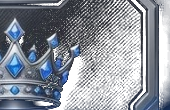
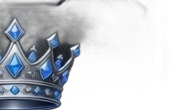
fix(live): prevent unauthorized room creation and zombie streams on tab close

diff --git a/pages/api/live/gift.js b/pages/api/live/gift.js
@@ -1,11 +1,21 @@
 /**
- * POST /api/live/gift
- * Send a diamond gift to a live broadcaster.
+ * ═══════════════════════════════════════════════════════════════════════════════
+ *  POST /api/live/gift
+ *  Send a diamond gift to a live broadcaster.
  *
  * Flow: atomic deduct from sender → atomic credit to receiver → record gift → broadcast to viewers → notify
  *
  * Uses deduct_diamonds (now with FOR UPDATE row lock) and add_diamonds_to_balance RPCs
  * for fully atomic balance operations.
+ *
+ * ANTI-FARMING SAFEGUARDS (live gifts):
+ *  - Hard block: accounts < 30 days cannot send ANY live gifts
+ *  - Source-tier rolling 30-day cap (days 31–89):
+ *      free/earned diamonds: 100 diamonds/30 days
+ *      purchased/won diamonds: 500 diamonds/30 days
+ *  - Accounts 90+ days: standard max-per-gift cap (10,000) + velocity detection
+ *  - Per-broadcaster rolling 30-day receive cap: 1,000 diamonds
+ * ═══════════════════════════════════════════════════════════════════════════════
  */
 import { randomUUID } from 'crypto';
 import { getServerUserWithFallback } from '../../../src/lib/serverAuth';
@@ -15,6 +25,59 @@ const supabase = createClient(
     process.env.NEXT_PUBLIC_SUPABASE_URL,
     process.env.SUPABASE_SERVICE_ROLE_KEY
 );
+
+// ── Anti-farming constants (live gifts) ──
+const NEW_USER_BLOCK_DAYS = 30;
+const GRADUATION_DAYS = 90;
+const FREE_EARNED_30DAY_LIMIT = 100;
+const PURCHASED_WON_30DAY_LIMIT = 500;
+const RECEIVER_30DAY_RECEIVE_LIMIT = 1000; // per broadcaster per 30-day rolling window
+
+const PURCHASED_WON_TYPES = new Set([
+    'purchase', 'stripe_purchase', 'diamond_purchase',
+    'tournament_prize', 'tournament_win', 'prize_pool', 'promo_purchased',
+]);
+
+async function checkVelocity(userId) {
+    const now = new Date();
+    const oneHourAgo = new Date(now.getTime() - 60 * 60 * 1000).toISOString();
+    const oneDayAgo = new Date(now.getTime() - 24 * 60 * 60 * 1000).toISOString();
+
+    const { data: recentHour } = await supabase
+        .from('diamond_transactions')
+        .select('id')
+        .eq('user_id', userId)
+        .in('transaction_type', ['diamond_gift_sent', 'live_gift_sent'])
+        .gte('created_at', oneHourAgo);
+    
+    const txIn1h = (recentHour || []).length;
+
+    if (txIn1h >= 20) {
+        console.warn(`[VELOCITY:FARMING] User ${userId} sent ${txIn1h} live gifts in 1h`);
+    }
+}
+
+async function getLiveGiftSourceCapAvailable(userId) {
+    const { data: inbound } = await supabase
+        .from('diamond_transactions')
+        .select('amount, transaction_type')
+        .eq('user_id', userId)
+        .gt('amount', 0);
+
+    let purchasedWonTotal = 0;
+    for (const row of inbound || []) {
+        if (PURCHASED_WON_TYPES.has(row.transaction_type)) purchasedWonTotal += Math.abs(row.amount);
+    }
+
+    const { data: outbound } = await supabase
+        .from('diamond_transactions')
+        .select('amount')
+        .eq('user_id', userId)
+        .in('transaction_type', ['diamond_gift_sent', 'live_gift_sent']);
+
+    const totalSent = (outbound || []).reduce((sum, r) => sum + Math.abs(r.amount), 0);
+    return Math.max(0, purchasedWonTotal - totalSent);
+}
 
 export default async function handler(req, res) {
     if (req.method !== 'POST') return res.status(405).json({ error: 'Method not allowed' });
@@ -86,6 +149,9 @@ export default async function handler(req, res) {
                 gateType: 'source_tier_cap',
             });
         }
+    } else {
+        // ── Graduated accounts: rely on velocity detectors ──
+        await checkVelocity(user.id);
     }
 
     // ── GUARD: Per-broadcaster rolling 30-day receive cap ──

diff --git a/run_rembg.py b/run_rembg.py
@@ -1,0 +1,34 @@
+from PIL import Image
+from rembg import remove
+import io
+
+img_path = '/Users/smarter.poker/.gemini/antigravity/brain/219ed5e5-32b8-45d9-a30e-55c0fec9fb8c/media__1777986324001.jpg'
+original = Image.open(img_path)
+
+# Crop coordinates
+crown_box = (290, 50, 500, 200)
+diamond_box = (150, 420, 380, 580)
+vip_crown_box = (540, 420, 710, 530)
+
+# Process Crown
+crown = original.crop(crown_box)
+crown_bytes = io.BytesIO()
+crown.save(crown_bytes, format='PNG')
+crown_out = remove(crown_bytes.getvalue())
+Image.open(io.BytesIO(crown_out)).save('/Users/smarter.poker/Documents/Smarter-Poker-World-Hub/public/images/wallet-crown.png')
+
+# Process Diamond
+diamond = original.crop(diamond_box)
+diamond_bytes = io.BytesIO()
+diamond.save(diamond_bytes, format='PNG')
+diamond_out = remove(diamond_bytes.getvalue())
+Image.open(io.BytesIO(diamond_out)).save('/Users/smarter.poker/Documents/Smarter-Poker-World-Hub/public/images/wallet-diamond.png')
+
+# Process VIP Crown
+vip_crown = original.crop(vip_crown_box)
+vip_crown_bytes = io.BytesIO()
+vip_crown.save(vip_crown_bytes, format='PNG')
+vip_crown_out = remove(vip_crown_bytes.getvalue())
+Image.open(io.BytesIO(vip_crown_out)).save('/Users/smarter.poker/Documents/Smarter-Poker-World-Hub/public/images/wallet-vip-crown.png')
+
+print("Assets processed with rembg")
